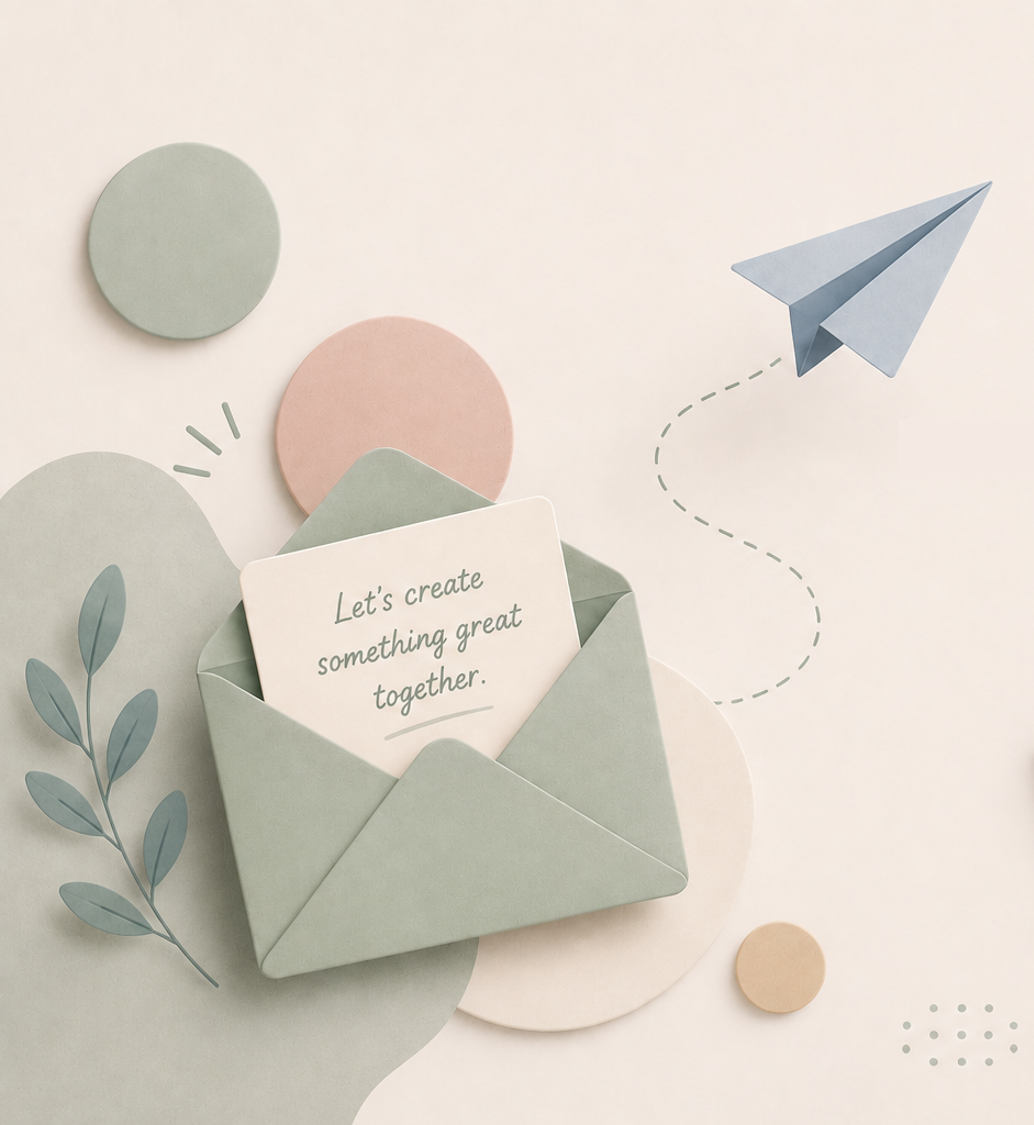
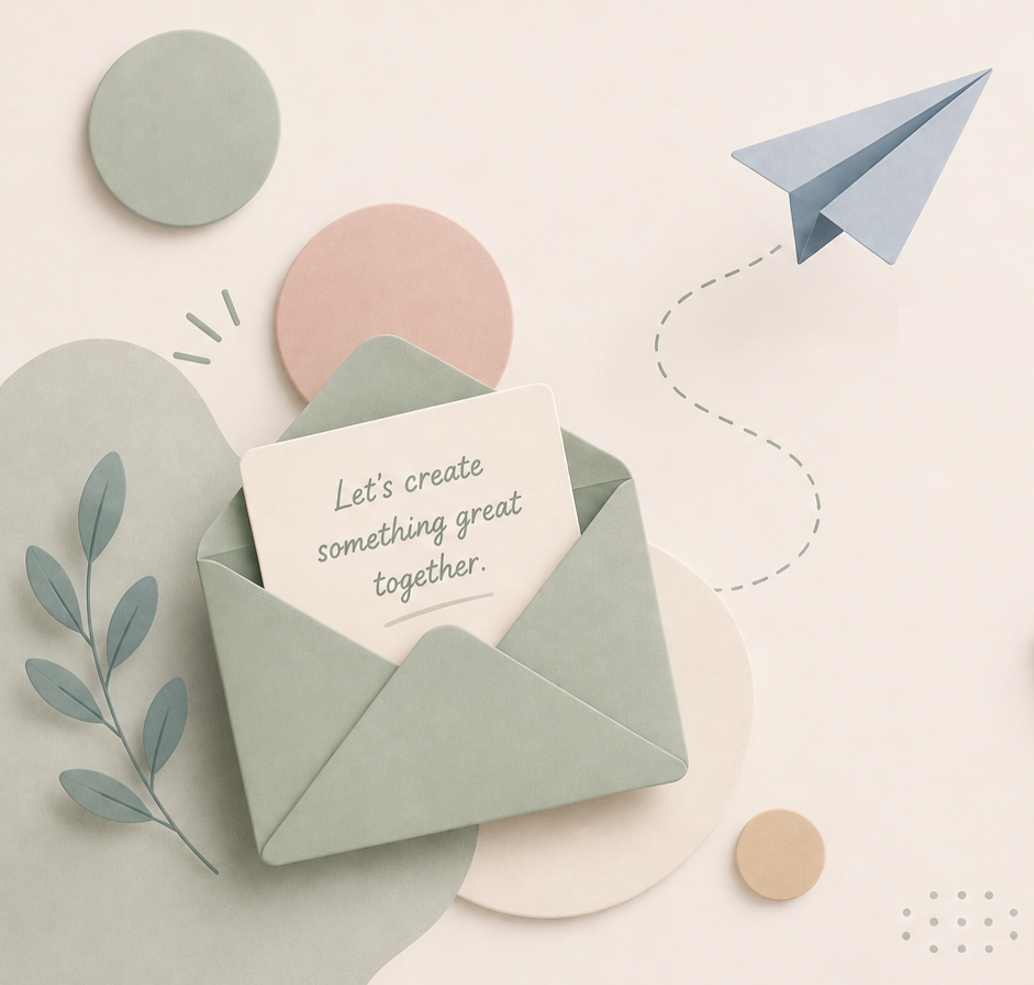
Improve UI/UX

diff --git a/src/components/sections/Contact.tsx b/src/components/sections/Contact.tsx
@@ -5,6 +5,39 @@ import './Contact.css'
 
 type Status = 'idle' | 'loading' | 'success' | 'error'
 
+function IconPerson() {
+  return (
+    <svg viewBox="0 0 24 24" aria-hidden="true">
+      <path
+        fill="currentColor"
+        d="M12 12a4.5 4.5 0 1 0-4.5-4.5A4.5 4.5 0 0 0 12 12zm0 2.25c-3.6 0-8.25 1.8-8.25 5.25V21h16.5v-1.5c0-3.45-4.65-5.25-8.25-5.25z"
+      />
+    </svg>
+  )
+}
+
+function IconMail() {
+  return (
+    <svg viewBox="0 0 24 24" aria-hidden="true">
+      <path
+        fill="currentColor"
+        d="M20 4H4c-1.1 0-2 .9-2 2v12c0 1.1.9 2 2 2h16c1.1 0 2-.9 2-2V6c0-1.1-.9-2-2-2zm0 4-8 5L4 8V6l8 5 8-5v2z"
+      />
+    </svg>
+  )
+}
+
+function IconMessage() {
+  return (
+    <svg viewBox="0 0 24 24" aria-hidden="true">
+      <path
+        fill="currentColor"
+        d="M20 2H4a2 2 0 0 0-2 2v18l4-4h14a2 2 0 0 0 2-2V4a2 2 0 0 0-2-2zm0 14H5.2L4 17.2V4h16v12z"
+      />
+    </svg>
+  )
+}
+
 const MAX_NAME = 80
 const MAX_EMAIL = 120
 const MAX_MESSAGE = 1200
@@ -153,33 +186,40 @@ export function Contact() {
                 </label>
               </div>
 
-              <div className="contact__row">
-                <label>
-                  Name
-                  <input
-                    name="name"
-                    type="text"
-                    required
-                    maxLength={MAX_NAME}
-                    autoComplete="name"
-                  />
-                </label>
-                <label>
-                  Email
-                  <input
-                    name="email"
-                    type="email"
-                    required
-                    maxLength={MAX_EMAIL}
-                    autoComplete="email"
-                  />
-                </label>
-              </div>
               <label>
-                Message
+                <span className="contact__label">
+                  <IconPerson />
+                  Name
+                </span>
+                <input
+                  name="name"
+                  type="text"
+                  required
+                  maxLength={MAX_NAME}
+                  autoComplete="name"
+                />
+              </label>
+              <label>
+                <span className="contact__label">
+                  <IconMail />
+                  Email
+                </span>
+                <input
+                  name="email"
+                  type="email"
+                  required
+                  maxLength={MAX_EMAIL}
+                  autoComplete="email"
+                />
+              </label>
+              <label className="contact__message">
+                <span className="contact__label">
+                  <IconMessage />
+                  Message
+                </span>
                 <textarea
                   name="message"
-                  rows={3}
+                  rows={6}
                   required
                   maxLength={MAX_MESSAGE}
                   minLength={MIN_MESSAGE}

diff --git a/src/components/sections/Contact.css b/src/components/sections/Contact.css
@@ -14,7 +14,6 @@
 
 .contact__layout {
   display: grid;
-  /* cropped portrait illustration → narrower left, wider form on the right */
   grid-template-columns: minmax(200px, 0.78fr) minmax(0, 1.42fr);
   gap: 1.25rem;
   align-items: stretch;
@@ -40,29 +39,43 @@
 }
 
 .contact__form {
-  display: grid;
-  gap: 0.7rem;
-  padding: 1rem 1.15rem;
+  display: flex;
+  flex-direction: column;
+  gap: 0.55rem;
+  padding: 0.85rem 1.05rem;
   border-radius: 16px;
   background: var(--bg-elevated);
   border: 1px solid var(--line);
   box-shadow: var(--shadow);
-  align-content: center;
   height: 100%;
+  min-height: 0;
   box-sizing: border-box;
-}
-
-.contact__row {
-  display: grid;
-  grid-template-columns: 1fr 1fr;
-  gap: 0.7rem;
 }
 
 .contact__form label {
   display: grid;
-  gap: 0.3rem;
+  gap: 0.25rem;
   font-weight: 600;
   font-size: 0.88rem;
+}
+
+.contact__label {
+  display: inline-flex;
+  align-items: center;
+  gap: 0.4rem;
+}
+
+.contact__label svg {
+  width: 15px;
+  height: 15px;
+  color: var(--accent-deep);
+  flex-shrink: 0;
+}
+
+.contact__message {
+  flex: 1 1 auto;
+  min-height: 0;
+  grid-template-rows: auto 1fr;
 }
 
 .contact__form input,
@@ -70,11 +83,17 @@
   width: 100%;
   border: 1px solid var(--line);
   border-radius: 10px;
-  padding: 0.6rem 0.8rem;
+  padding: 0.55rem 0.75rem;
   background: #fff;
   color: var(--ink);
   outline: none;
   transition: border-color 0.2s ease, box-shadow 0.2s ease;
+}
+
+.contact__form textarea {
+  height: 100%;
+  min-height: 7.5rem;
+  resize: none;
 }
 
 .contact__form input:focus,
@@ -84,10 +103,10 @@
 }
 
 .contact__form button {
-  margin-top: 0.1rem;
+  margin-top: auto;
   border: none;
   border-radius: 999px;
-  padding: 0.7rem 1.1rem;
+  padding: 0.65rem 1.1rem;
   background: var(--ink);
   color: #fff;
   font-weight: 700;
@@ -128,8 +147,7 @@
 }
 
 @media (max-width: 820px) {
-  .contact__layout,
-  .contact__row {
+  .contact__layout {
     grid-template-columns: 1fr;
   }
 
@@ -140,5 +158,9 @@
 
   .contact__form {
     height: auto;
+  }
+
+  .contact__form textarea {
+    min-height: 8rem;
   }
 }

diff --git a/index.html b/index.html
@@ -3,20 +3,11 @@
   <head>
     <meta charset="UTF-8" />
     <link rel="icon" type="image/png" sizes="32x32" href="/favicon-32.png" />
-    <link rel="icon" type="image/png" sizes="64x64" href="/favicon-64.png" />
-    <link rel="icon" type="image/png" sizes="192x192" href="/favicon-192.png" />
     <link rel="apple-touch-icon" sizes="180x180" href="/apple-touch-icon.png" />
-    <link rel="shortcut icon" href="/favicon-32.png" />
     <meta name="viewport" content="width=device-width, initial-scale=1.0" />
     <meta
       name="description"
       content="Yehan Wang — Computer Science student at East China Normal University. Portfolio, projects, and contact."
-    />
-    <link rel="preconnect" href="https://fonts.googleapis.com" />
-    <link rel="preconnect" href="https://fonts.gstatic.com" crossorigin />
-    <link
-      href="https://fonts.googleapis.com/css2?family=DM+Sans:ital,opsz,wght@0,9..40,400;0,9..40,500;0,9..40,600;0,9..40,700;1,9..40,400&display=swap"
-      rel="stylesheet"
     />
     <title>Yehan Wang | Personal Homepage</title>
   </head>

diff --git a/src/components/sections/Projects.css b/src/components/sections/Projects.css
@@ -7,6 +7,8 @@
 
 .projects__lead {
   margin-bottom: 0;
+  max-width: none;
+  white-space: nowrap;
 }
 
 .projects__github {
@@ -29,6 +31,12 @@
 .projects__github:hover {
   transform: translateY(-2px) scale(1.04);
   background: var(--accent-deep);
+}
+
+@media (max-width: 980px) {
+  .projects__lead {
+    white-space: normal;
+  }
 }
 
 .projects__grid {

diff --git a/src/styles/global.css b/src/styles/global.css
@@ -13,7 +13,7 @@
   --nav-h: 4.25rem;
   --radius: 14px;
   --font-display: 'Times New Roman', Times, 'Liberation Serif', 'Noto Serif', serif;
-  --font-body: 'DM Sans', sans-serif;
+  --font-body: Cambria, 'Times New Roman', Times, Georgia, serif;
   --max: 1180px;
   --ease: cubic-bezier(0.22, 1, 0.36, 1);
 }
